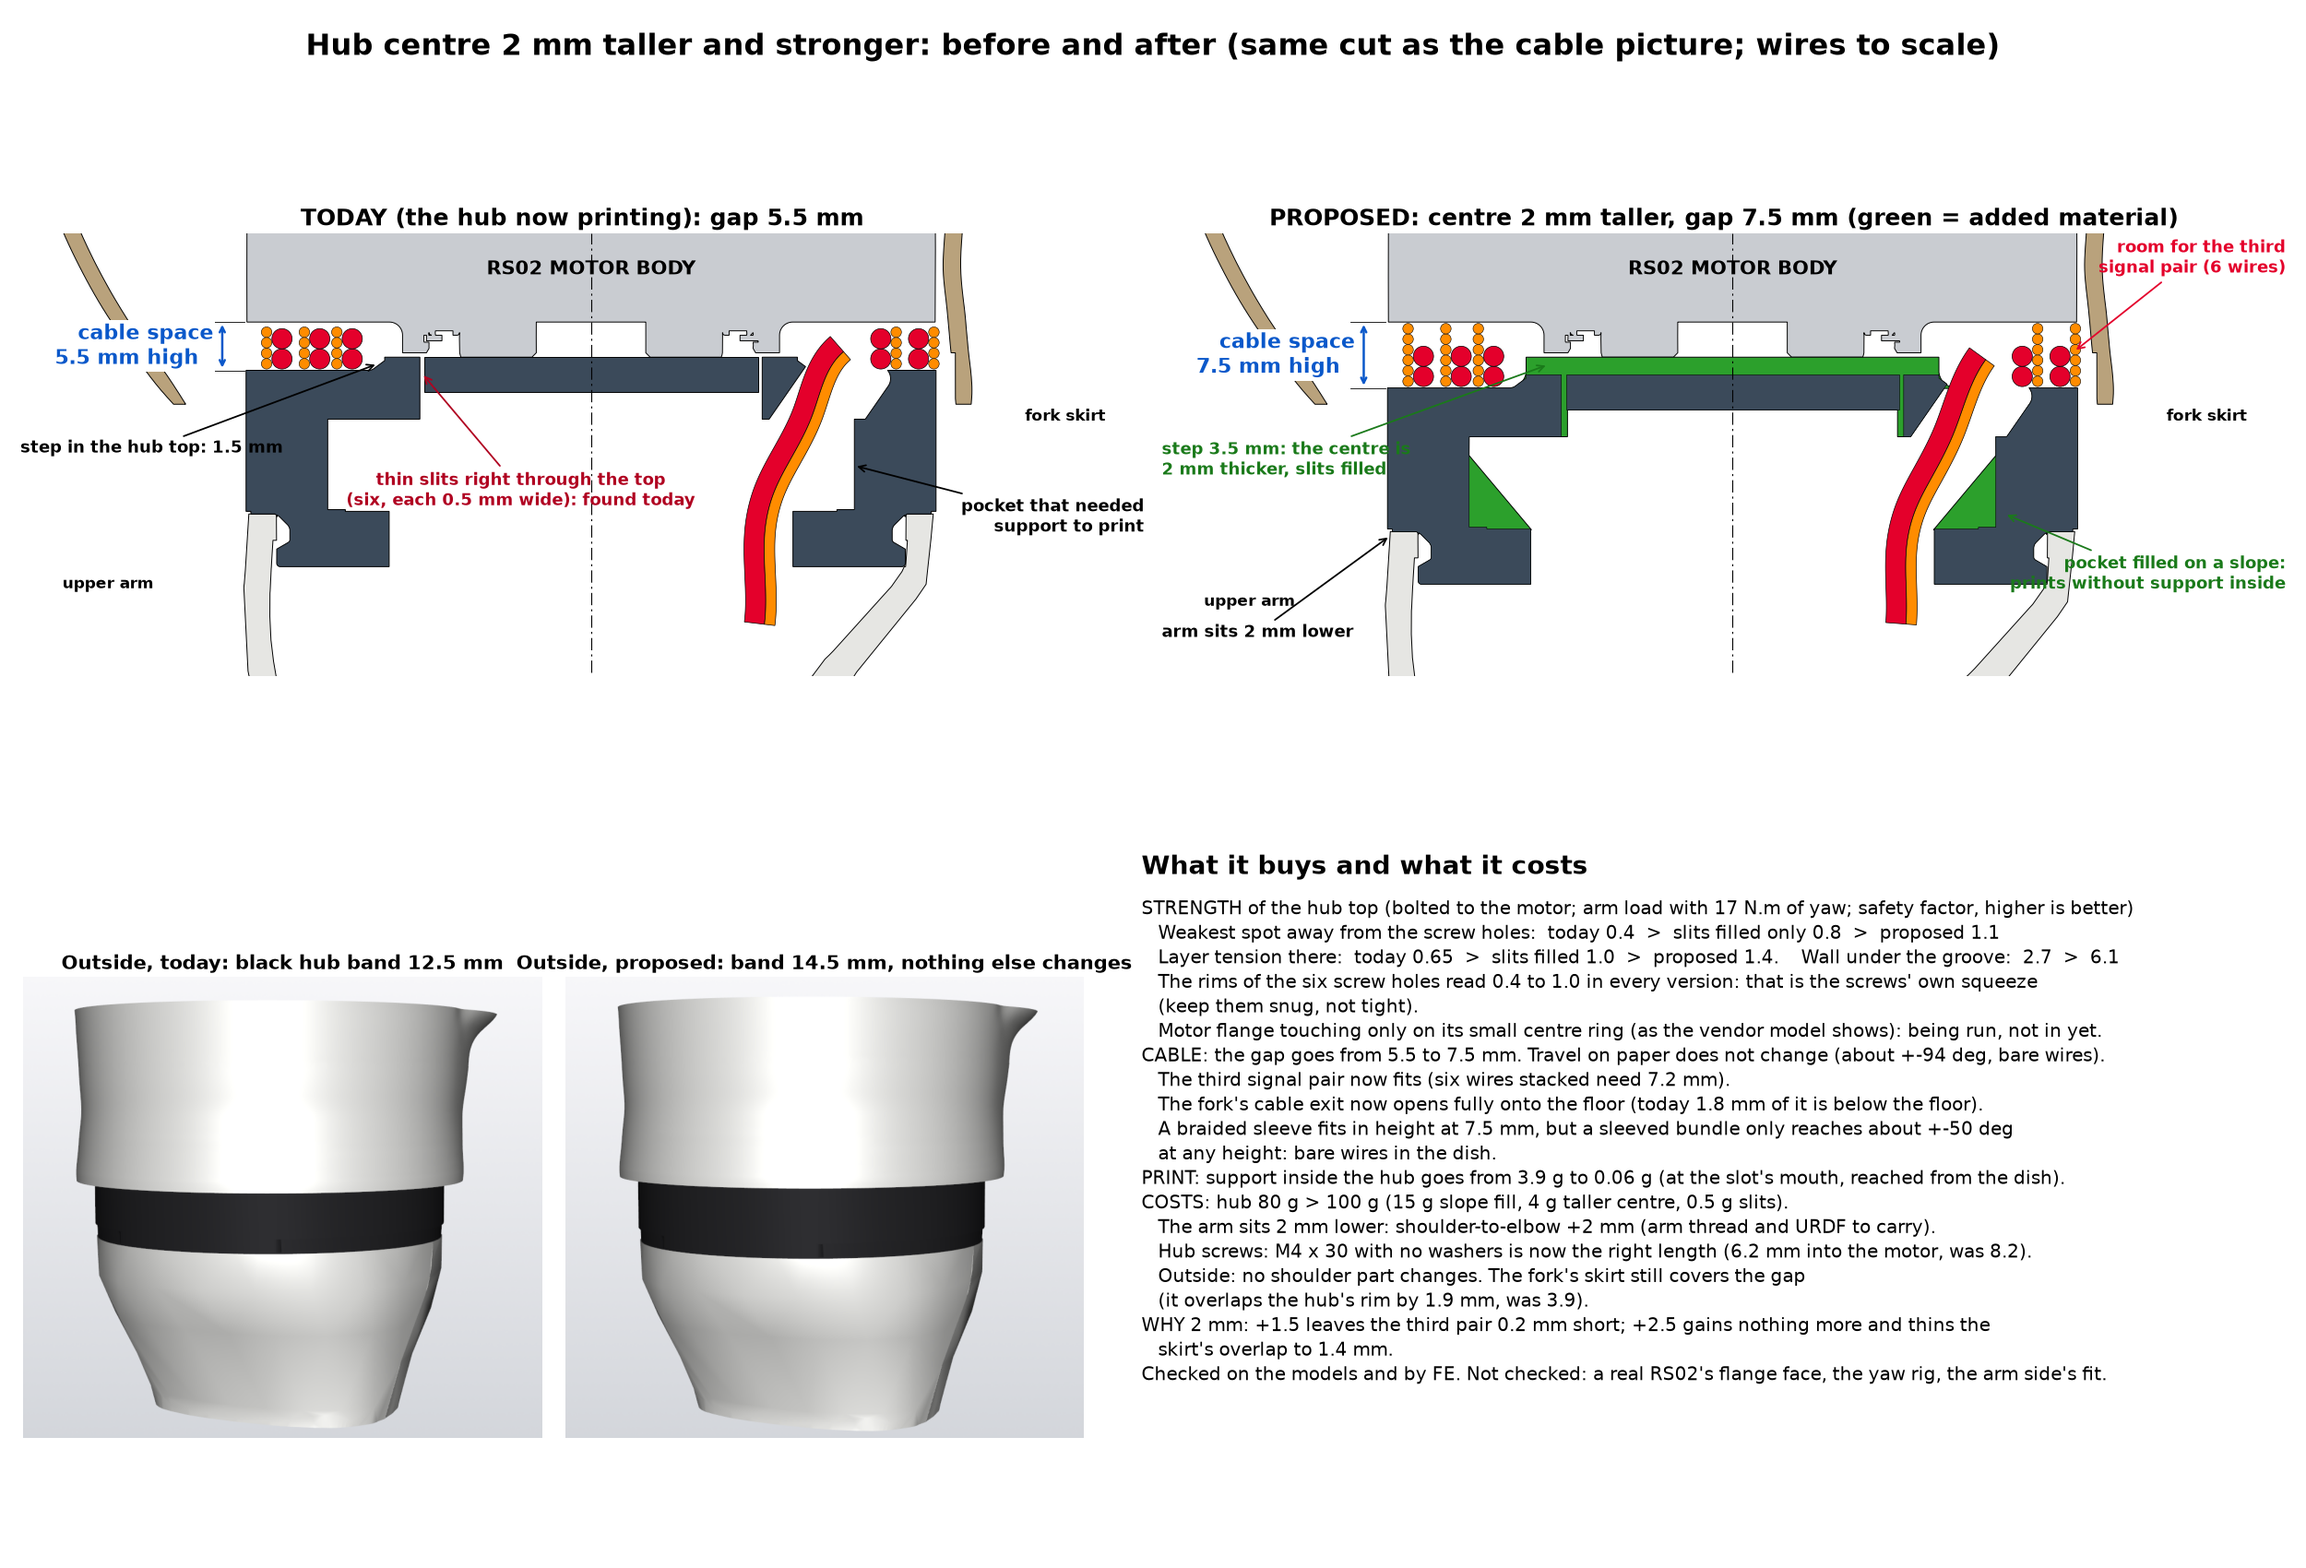
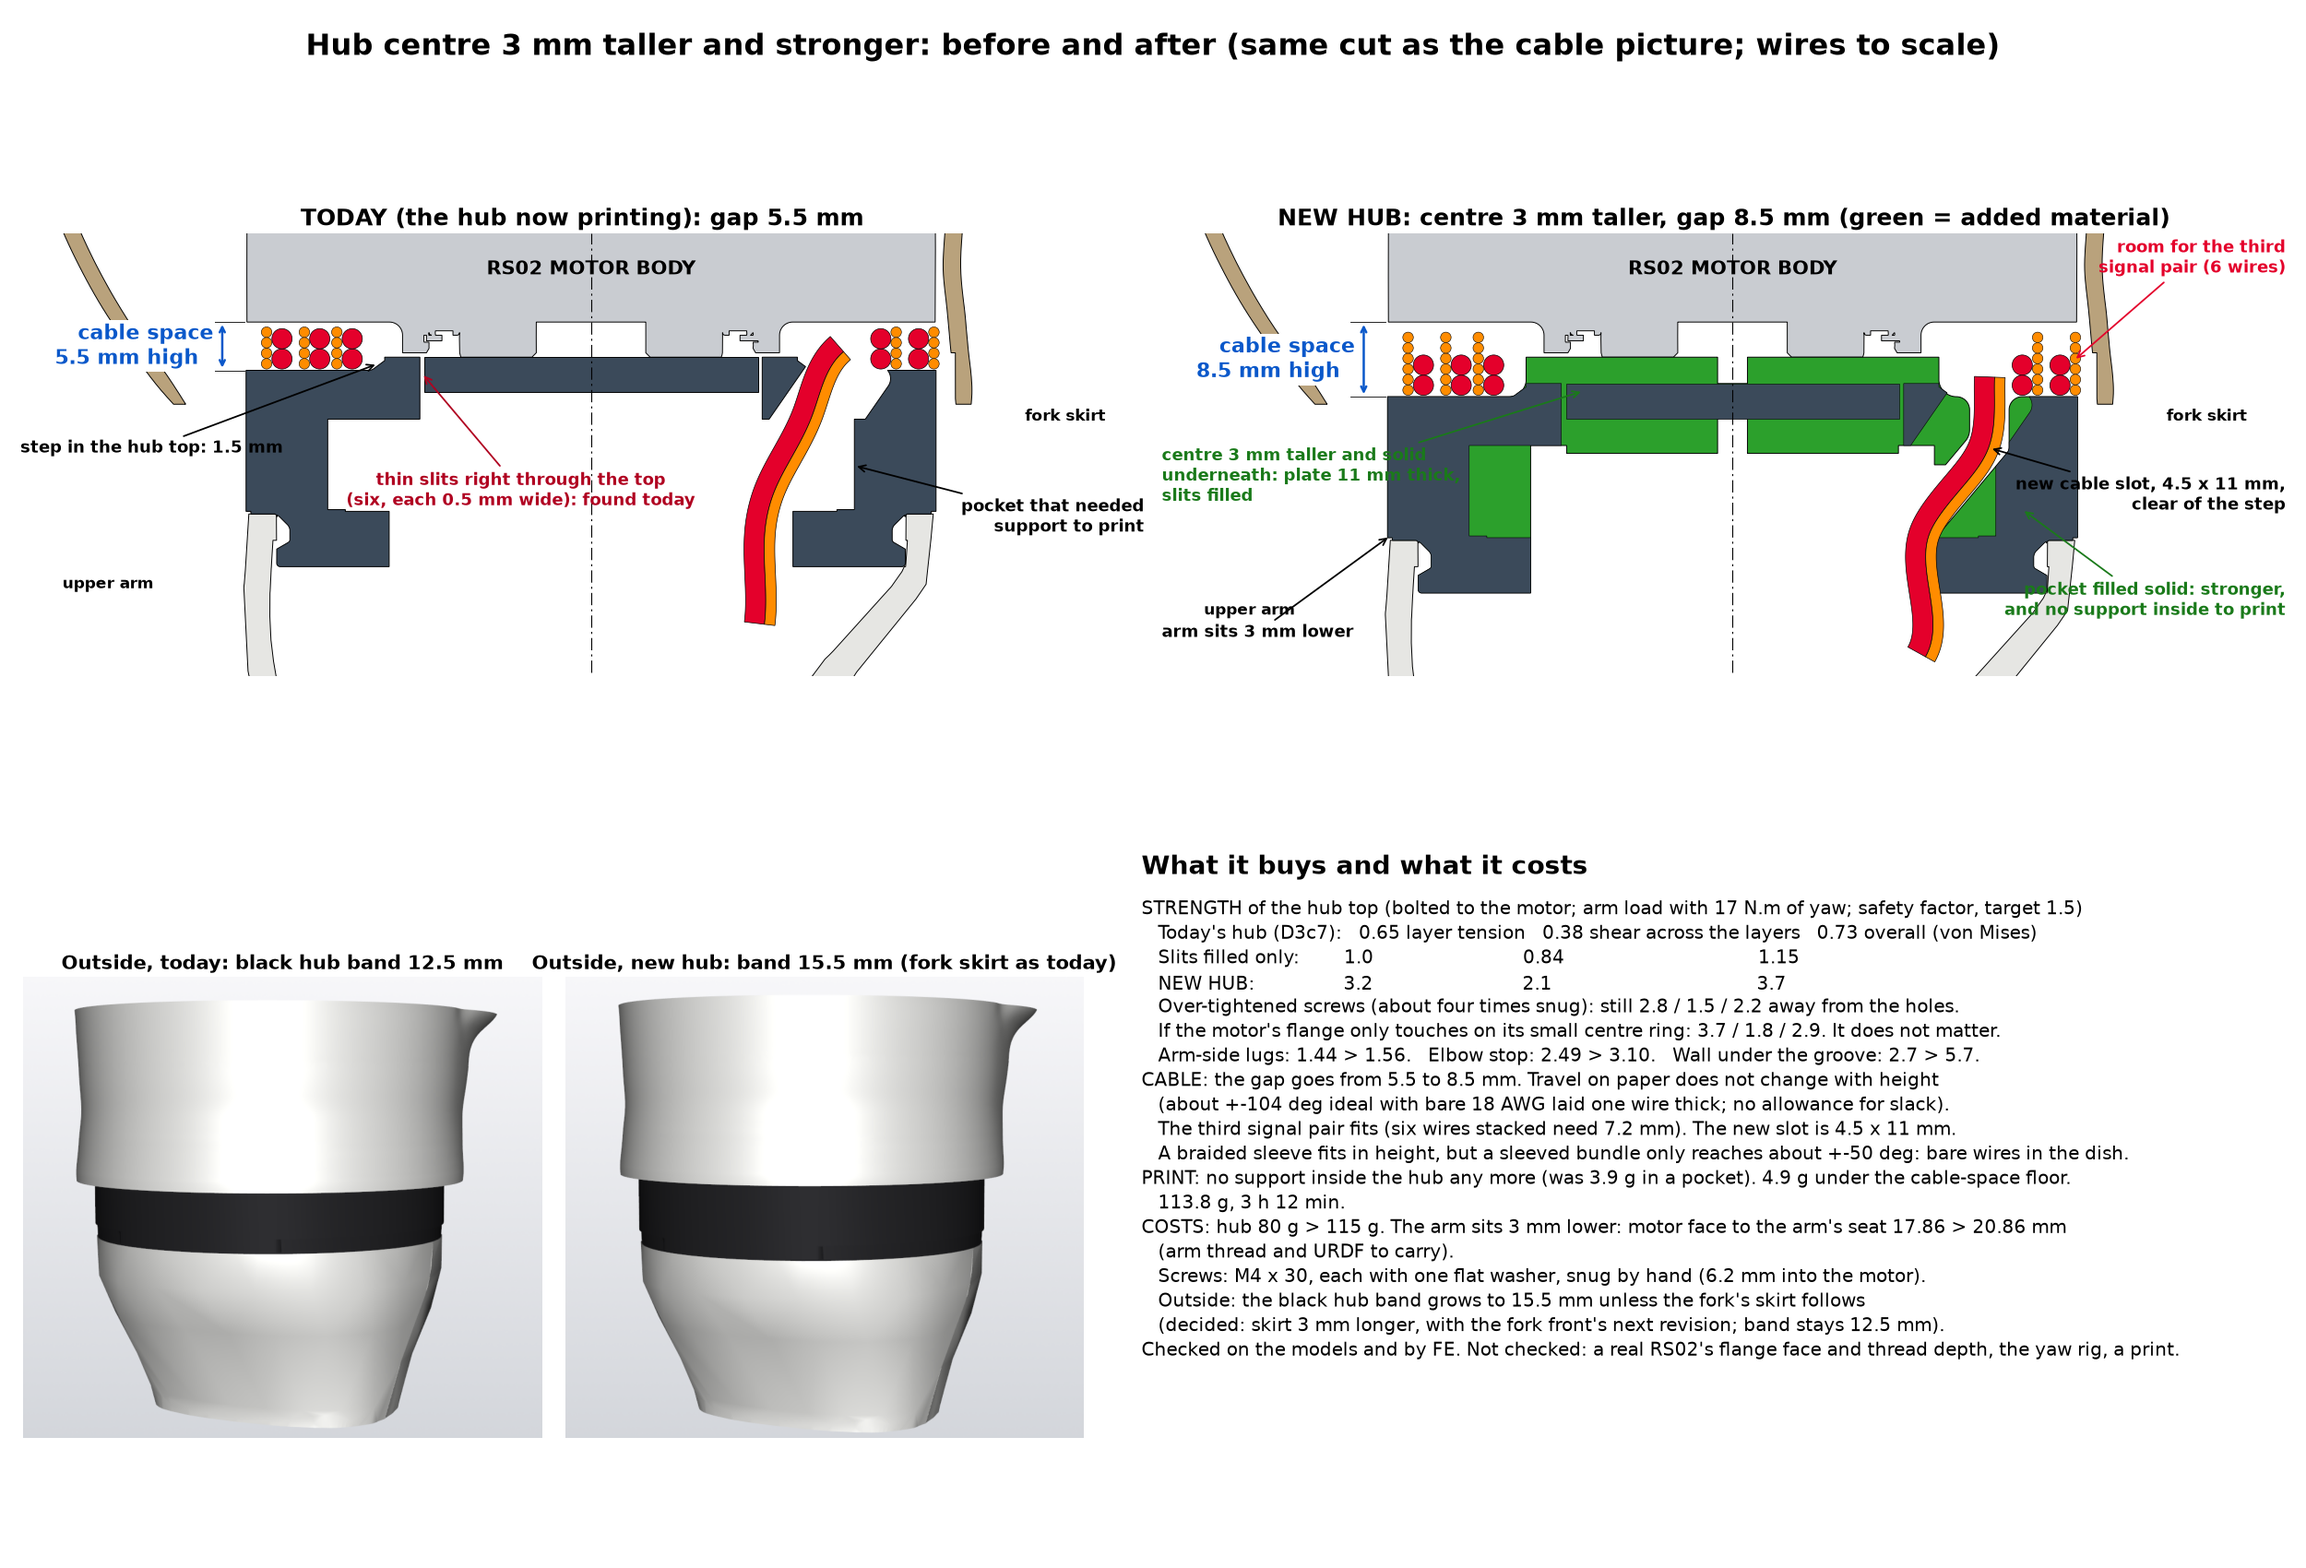
Shoulder: hub rev E1 record, refreshed before/after sheet, adoption staged
The hub record gains the rev E1 section (what was found, what changed, the bolted hub-top case on hub nodes
only, hole-edge variants, lug gate, stop, print). The before/after sheet shows the final +3.0 shape with its
figures. The adoption script points at the final candidate, and the print and CAD notes text for the
adoption is prepared as a script. Nothing is adopted.

diff --git a/cad/scripts/shoulder/adopt_hub_revE1_docs.py b/cad/scripts/shoulder/adopt_hub_revE1_docs.py
@@ -1,0 +1,85 @@
+"""PREPARED, NOT RUN: the PRINT_NOTES and CAD_NOTES text for the adoption of hub rev E1. Run once, right after
+adopt_hub_revE1.sh, from this folder:   python adopt_hub_revE1_docs.py YYYY-MM-DD <sha256 of the adopted STL>
+Each replacement asserts that its anchor is there exactly once."""
+import sys
+from pathlib import Path
+
+DATE, SHA = sys.argv[1], sys.argv[2]
+R = Path(__file__).resolve().parents[3] / 'hardware' / 'shoulder' / 'study-20261111' / 'cad-pass1'
+
+
+def edit(name, pairs):
+    p = R / name
+    s = p.read_text(encoding='utf-8')
+    for a, b in pairs:
+        assert s.count(a) == 1, (name, s.count(a), a[:70])
+        s = s.replace(a, b)
+    p.write_bytes(s.encode('utf-8'))
+    print('edited', name)
+
+
+HUB = f"""### Hub (rev E1, adopted {DATE})
+
+**Print file:** `shoulder_hub_left_revE1.3mf` with the STL and a README, on holly-pc in `C:\\joe\\prints\\shoulder-hub\\`
+and on Joey-PC in `J:\\code\\prints\\shoulder-hub\\`. Not in the repo. **Rev D3c7's file there is superseded:** D3c7 has
+six slits through its top and is good for the fit bench only.
+
+- **Colour:** black PETG. **Settings:** Generic PETG, 0.20 mm, 6 walls, **100 % infill, no brim**, tree supports with
+  blockers round the groove and at the two lugs, Cool Plate SuperTack. Motor face down, lugs up.
+- **Sliced:** 113.8 g, 3 h 12 min; 4.9 g of it support. Part 115.2 g by volume.
+- **Supports:** all in the lowest 4.6 mm on the plate side: a ring under the floor of the cable space, open at the rim,
+  and small plugs in the mouths of the six screw holes, the centre hole and the cable tunnel. **Nothing inside the hub.**
+- **After printing:** peel the ring off at the rim; pick out the plugs; smooth the cable space's floor and the tunnel's
+  mouth. **Clear the cable tunnel with a 4 mm rod:** straight down the mouth from the cable-space side (6 mm), and up
+  from the bore at about 40° to the bore's axis. Check the lug holes with a 3.8 mm drill shank. Measure the spigot
+  (CAD 71.6 mm). Ream the two smaller holes to 4.00 mm when the shoulder goes together.
+- **What rev E1 is** (A_HUB_LUGS.md, "Rev E1"): the centre 3 mm taller (cable gap 8.5 mm; the hub and the arm sit 3 mm
+  lower on the yaw axis), the six top slits filled, the inner pocket solid, the centre plate 11 mm thick, the six screw
+  tubes dia 10.8, a 4.5 × 11 mm cable tunnel with one bend that stays clear of the step ring. The arm's side is unchanged.
+- **Screws: six M4 × 30, each with ONE standard flat washer** (dia 9, 0.8 thick), **snug by hand.** 6.2 mm into the
+  motor. Without the washer 7.0 mm, which is all the thread the RS02's drawing promises: do not leave it out. Two
+  washers, or a flat and a split spring washer (about 1.0 mm): 5.2 to 5.4 mm, still enough. Any two of the six go in
+  the reamed holes; they need not be partially threaded.
+- **Threading the cable:** bare wires only, from the cable-space side, one or two at a time with tweezers; they come
+  out in the bore and hang straight down against its wall (about r 21.5). Tie the bundle to the screw tube next to the
+  tunnel, inside the bore. Cut the length in the cable space to about 500 mm (CABLE_TRAVEL.md).
+
+### Hub rev D3c7 (superseded {DATE}; kept for the record of the stage 1 print)
+"""
+
+edit('PRINT_NOTES.md', [
+    ("### Hub (rev D3c7, released for the stage 1 print 2026-11-14)\n", HUB),
+    ("| **Hub** | `shoulder_hub_left` | 80.2 g | 2026-11-14 (rev D3c7, adopted) | **Released for the stage 1 print. Print file ready** (hub section below) |",
+     f"| **Hub** | `shoulder_hub_left` | 115.2 g | {DATE} (rev E1, adopted) | **Print file ready** (hub section below). Rev D3c7's print is superseded: fit bench only |"),
+    ("| Hub → RS02 output | 6 × M4: **M4 × 28**, or M4 × 30 with 1.6-2 mm of washer under the head. 2 of them partially threaded, in the reamed holes |",
+     "| Hub → RS02 output | 6 × **M4 × 30, each with one standard flat washer** (dia 9, 0.8 thick). Rev E1's seats are set for it: 6.2 mm into the motor |"),
+])
+
+CAD = f"""
+
+## Adopted {DATE}: hub rev E1 (taller, solid top)
+
+Joey's decisions of 2026-11-15: the hub's centre 3 mm taller; M4 × 30 with washers; stronger over sooner. The arm thread
+checked the candidate against rev D3c7 on its side and gave its go.
+
+- **Built by** `hub_candidate2.py` on the archived rev D3c7 part (`cad/_archive/hub_revD3c7/`, not in git), through
+  `adopt_hub_revE1.sh`. The part's last feature moves the body 3 mm down the yaw axis, so the part file and the exports
+  are in the assembly frame: top face on the RS02's output face at Y 319.86, body Y 285.00 to 319.86.
+- **STL SHA-256** `{SHA}`. 90,700 mm³, 115.2 g PETG (rev D3c7: 63,202 mm³, 80.3 g).
+- **For the arm and the URDF:** RS02 output face to the hub's disc underside, where the arm's end face seats: 17.86 mm
+  before, **20.86 mm** now. Everything on the arm moves 3.00 mm down the yaw axis.
+- **What changed** (in the arm's coordinates nothing below Y 302 moved): top face +3.0; six slits r 19.0-19.5 filled;
+  pocket under the spigot's ledge solid; centre plate thickened 4 mm downward between the tubes; tubes dia 10.8; head
+  seats at Y 299.86 (were 298.06); cable slot 4.5 × 11 as a dog-leg (down through the dish floor at r 27.0-31.5, then
+  50° inward, out through the bore wall at Y 302.1-309.1), mouth rounded 1.5, knee rounded 2.0, exit lip cut square;
+  R 2 from the step wall into the dish floor; seat-face hole edges square.
+- **Strength:** A_HUB_LUGS.md, "Rev E1". Hub top 3.2 / 2.1 / 3.7 (layer / shear / von Mises, worst 0.5 mm ball) against
+  0.65 / 0.38 / 0.73 for rev D3c7; lug gate 1.56 (1.44); elbow stop 3.10 (2.49).
+- **Not done here:** the fork front's skirt, 3.00 mm longer to follow the hub (with the fork front's next revision,
+  OPEN_ASSUMPTIONS item 49); the clearance sweep's result (`clearance_adopt_hubE1.json`) is to be read after the
+  adoption run.
+"""
+p = R / 'CAD_NOTES.md'
+s = p.read_text(encoding='utf-8')
+p.write_bytes((s.rstrip('\n') + CAD).encode('utf-8'))
+print('appended CAD_NOTES.md')

diff --git a/cad/scripts/shoulder/hub_taller_sheet.py b/cad/scripts/shoulder/hub_taller_sheet.py
@@ -27,7 +27,7 @@ from swk import CAD, WIP
 from yaw_cable_section import section
 
 H = 3.0
-LOOKN = 'hubT30A'
+LOOKN = 'hubT31'
 OUT = CAD.parent / 'hardware' / 'shoulder' / 'study-20261111' / 'checks' / 'hub_print' / 'HUB_TALLER_CENTRE.png'
 T = WIP / 'taller_views'
 COL = dict(hub='#3b4a5a', rs02='#c9ccd1', fork_front='#b9a27c', fork_rear='#b9a27c', arm='#e6e6e3', add='#2ca02c')

diff --git a/hardware/shoulder/study-20261111/checks/A_HUB_LUGS.md b/hardware/shoulder/study-20261111/checks/A_HUB_LUGS.md
@@ -1250,3 +1250,67 @@ unchanged.
 | Elbow stop, both ways of carrying the sideways load | 2.49 | 1.2 |
 | Hub top, bolted contact (read of record) | 1.47 | 1.2 |
 
+## Rev E1 candidate: taller, solid top (2026-11-15, exported, not adopted)
+
+`cad/exports/shoulder/shoulder_hub_left_revE1_candidate.STEP/.STL` (assembly frame: the hub 3 mm lower on the yaw axis)
+and `..._candidate_armframe.STEP/.STL` (the same solid in the arm's present coordinates). Armframe STL SHA-256
[2 lines of base64/hex data omitted]
+Built by `hub_candidate2.py` on a copy of the rev D3c7 part. Sheet: [hub_print/HUB_TALLER_CENTRE.png](hub_print/HUB_TALLER_CENTRE.png).
+
+**Why.** Three things found on 2026-11-15:
+1. **Rev D3c7 has six slits right through its top.** The imported arm hub's top plate ends at r 19.0 between its six
+   screw spokes and the shoulder's step ring was started at r 19.5: six arcs 0.5 mm wide, about 40° each, through the
+   whole 4 mm plate. The screw plate joined the rest of the hub by six bridges about 20° wide.
+2. **The read-out of the hub top was wrong in two ways.** The figure of record (the average round the single peak
+   node: 1.47) depends on the mesh, and the selection included the bottom face of the aluminium stand-in for the RS02
+   flange, whose nodes at its thread radius were read against PETG (the "hole rims at 0.4 to 1.0"). The read-out now
+   is the worst 0.5 mm ball over hub nodes only (`hub_top_post.py`, `hub_hole_post.py`; the nodes on the seat plane
+   itself are left out, so the hub's surface layer is read from 0.3 mm below).
+3. **On that read-out rev D3c7's top is at 0.4 to 0.7,** at the slits.
+
+**What rev E1 changes** (nothing below Y 302 in the arm's coordinates; the arm thread's check found its side identical):
+the centre 3 mm taller (Joey: cable gap 8.5 mm); slits filled; the pocket under the spigot's ledge solid; the centre
+plate 4 mm thicker downward between the screw tubes (11 mm in all); the tubes dia 10.8; head seats for M4 × 30 with one
+flat washer (Y 299.86 in the arm's coordinates, grip 23.0, 6.2 mm into the RS02); the cable slot 4.5 × 11 as a dog-leg
+that no longer cuts the step ring (down through the dish floor at r 27.0-31.5, then 50° inward, out through the bore
+wall at Y 302.1-309.1), mouth rounded 1.5, knee rounded 2.0, exit lip cut square; R 2 from the step wall into the
+floor; square hole edges on the seat face.
+
+**Hub top, bolted case Ah** (six M4 bolt connectors, 345 N each, contact on the seat, 372 N and 22.9 N·m with yaw +17;
+Intel direct sparse). Safety factor, worst 0.5 mm ball / 1 mm ball, hub nodes only:
+
+| | Layer tension | Shear across layers | Von Mises |
+|---|---|---|---|
+| Rev D3c7 (element 2.6) | 0.65 / 0.91 | 0.38 / 0.39 | 0.73 / 0.74 |
+| Rev D3c7 with only the slits filled (2.6) | 1.02 / 1.02 | 0.84 / 0.84 | 1.15 / 1.15 |
+| Rev D3c7 (element 4.5, control) | 0.91 / 1.05 | 0.44 / 0.48 | 0.78 / 0.85 |
+| **Rev E1, final shape** (global element 6.0, fine zones as before) | **3.16 / 3.54** | **2.07 / 2.68** | **3.68 / 4.20** |
+| Rev E1 at 1500 N per screw (heavy-handed, about 1.2 N·m), 0.5 chamfer shape, away from the holes | 2.82 | 1.53 | 2.20 |
+| Rev E1 with the flange touching only r 6.75-14.9 (the vendor model's flange), away from the holes | 3.68 | 1.84 | 2.90 |
+
+- **Round the cable tunnel:** 2.76 / 2.38 / 2.23. Its four long corners are square (filleting them took SolidWorks
+  down) and are not a low spot. **Wall under the groove:** 5.7 / 4.8 / 7.4 (rev D3c7 2.7 / 2.5 / 3.8).
+- **Hole edges on the seat face.** With a 0.5 mm chamfer the foot of the chamfer read 0.66 in shear (1.27 von Mises):
+  the flange then bears on a ring beside an unloaded cone. 1.0 chamfer: 1.11. A 0.2 × 1.0 relief ring round the
+  chamfer: 6.7. **Square edges, as rev D3c7 has them: 6.9 / 4.9, the best,** and what E1 has.
+- **Under the screw heads** (the tube ends): at 345 N with a washer, von Mises 4.3 and bearing 2.9 on the 0.5 mm ball;
+  at 1500 N 1.25 and 0.83 with a washer, 1.07 and 0.57 without. The model's screws are tied rigidly to the hole edge
+  there, and on that tie ring the final run reads 0.59 in layer tension (0.92 on 1 mm); rev D3c7 reads 0.64 at the same
+  place. A real washer spreads 345 N over 49 mm² (7 MPa).
+- **Lug gate** (G90 + yaw +17 at the arm's face totals, 1.19 M nodes): governing lug shear **1.56**, layer 1.61
+  (rev D3c7 1.44 / 1.58). **Elbow stop:** 3.10 (2.49). Both on the first E1 shape; the later edits do not touch the lugs.
+- **Mesh:** rev E1 has more solid than rev D3c7 and passes the 14 GB limit of the direct solver at element 2.6, so it
+  ran at a global 6.0 with the same fine zones (0.5 at the lug holes, 0.7 at the groove); the control row shows what
+  that does to rev D3c7.
+- **Print** (one slice, same settings and blockers): 113.8 g, 3 h 12 min, 4.9 g of support, all of it in the lowest
+  4.6 mm on the plate side. Nothing inside the hub. A 4 mm rod clears both legs of the tunnel.
+- **Cable:** the 18 AWG bundle with the third pair (3.8 × 7.2 stacked, or 8.8 × 2.6 flat as the arm lays it) passes
+  the 4.5 × 11 tunnel; the arm thread's route check gives 3.64 mm smallest clearance with the bundle hanging at r 21.5.
+- **Not verified:** a real RS02's flange face and thread depth; the yaw rig; a print.
+
+| Gate item | Rev D3c7 | Rev E1 | Target |
+|---|---|---|---|
+| G90 + yaw at the arm's face totals, governing lug | 1.44 | 1.56 | 1.5 |
+| Elbow stop | 2.49 | 3.10 | 1.2 |
+| Hub top, bolted, worst 0.5 mm ball (layer / shear / von Mises) | 0.65 / 0.38 / 0.73 | 3.16 / 2.07 / 3.68 | 1.5 |
